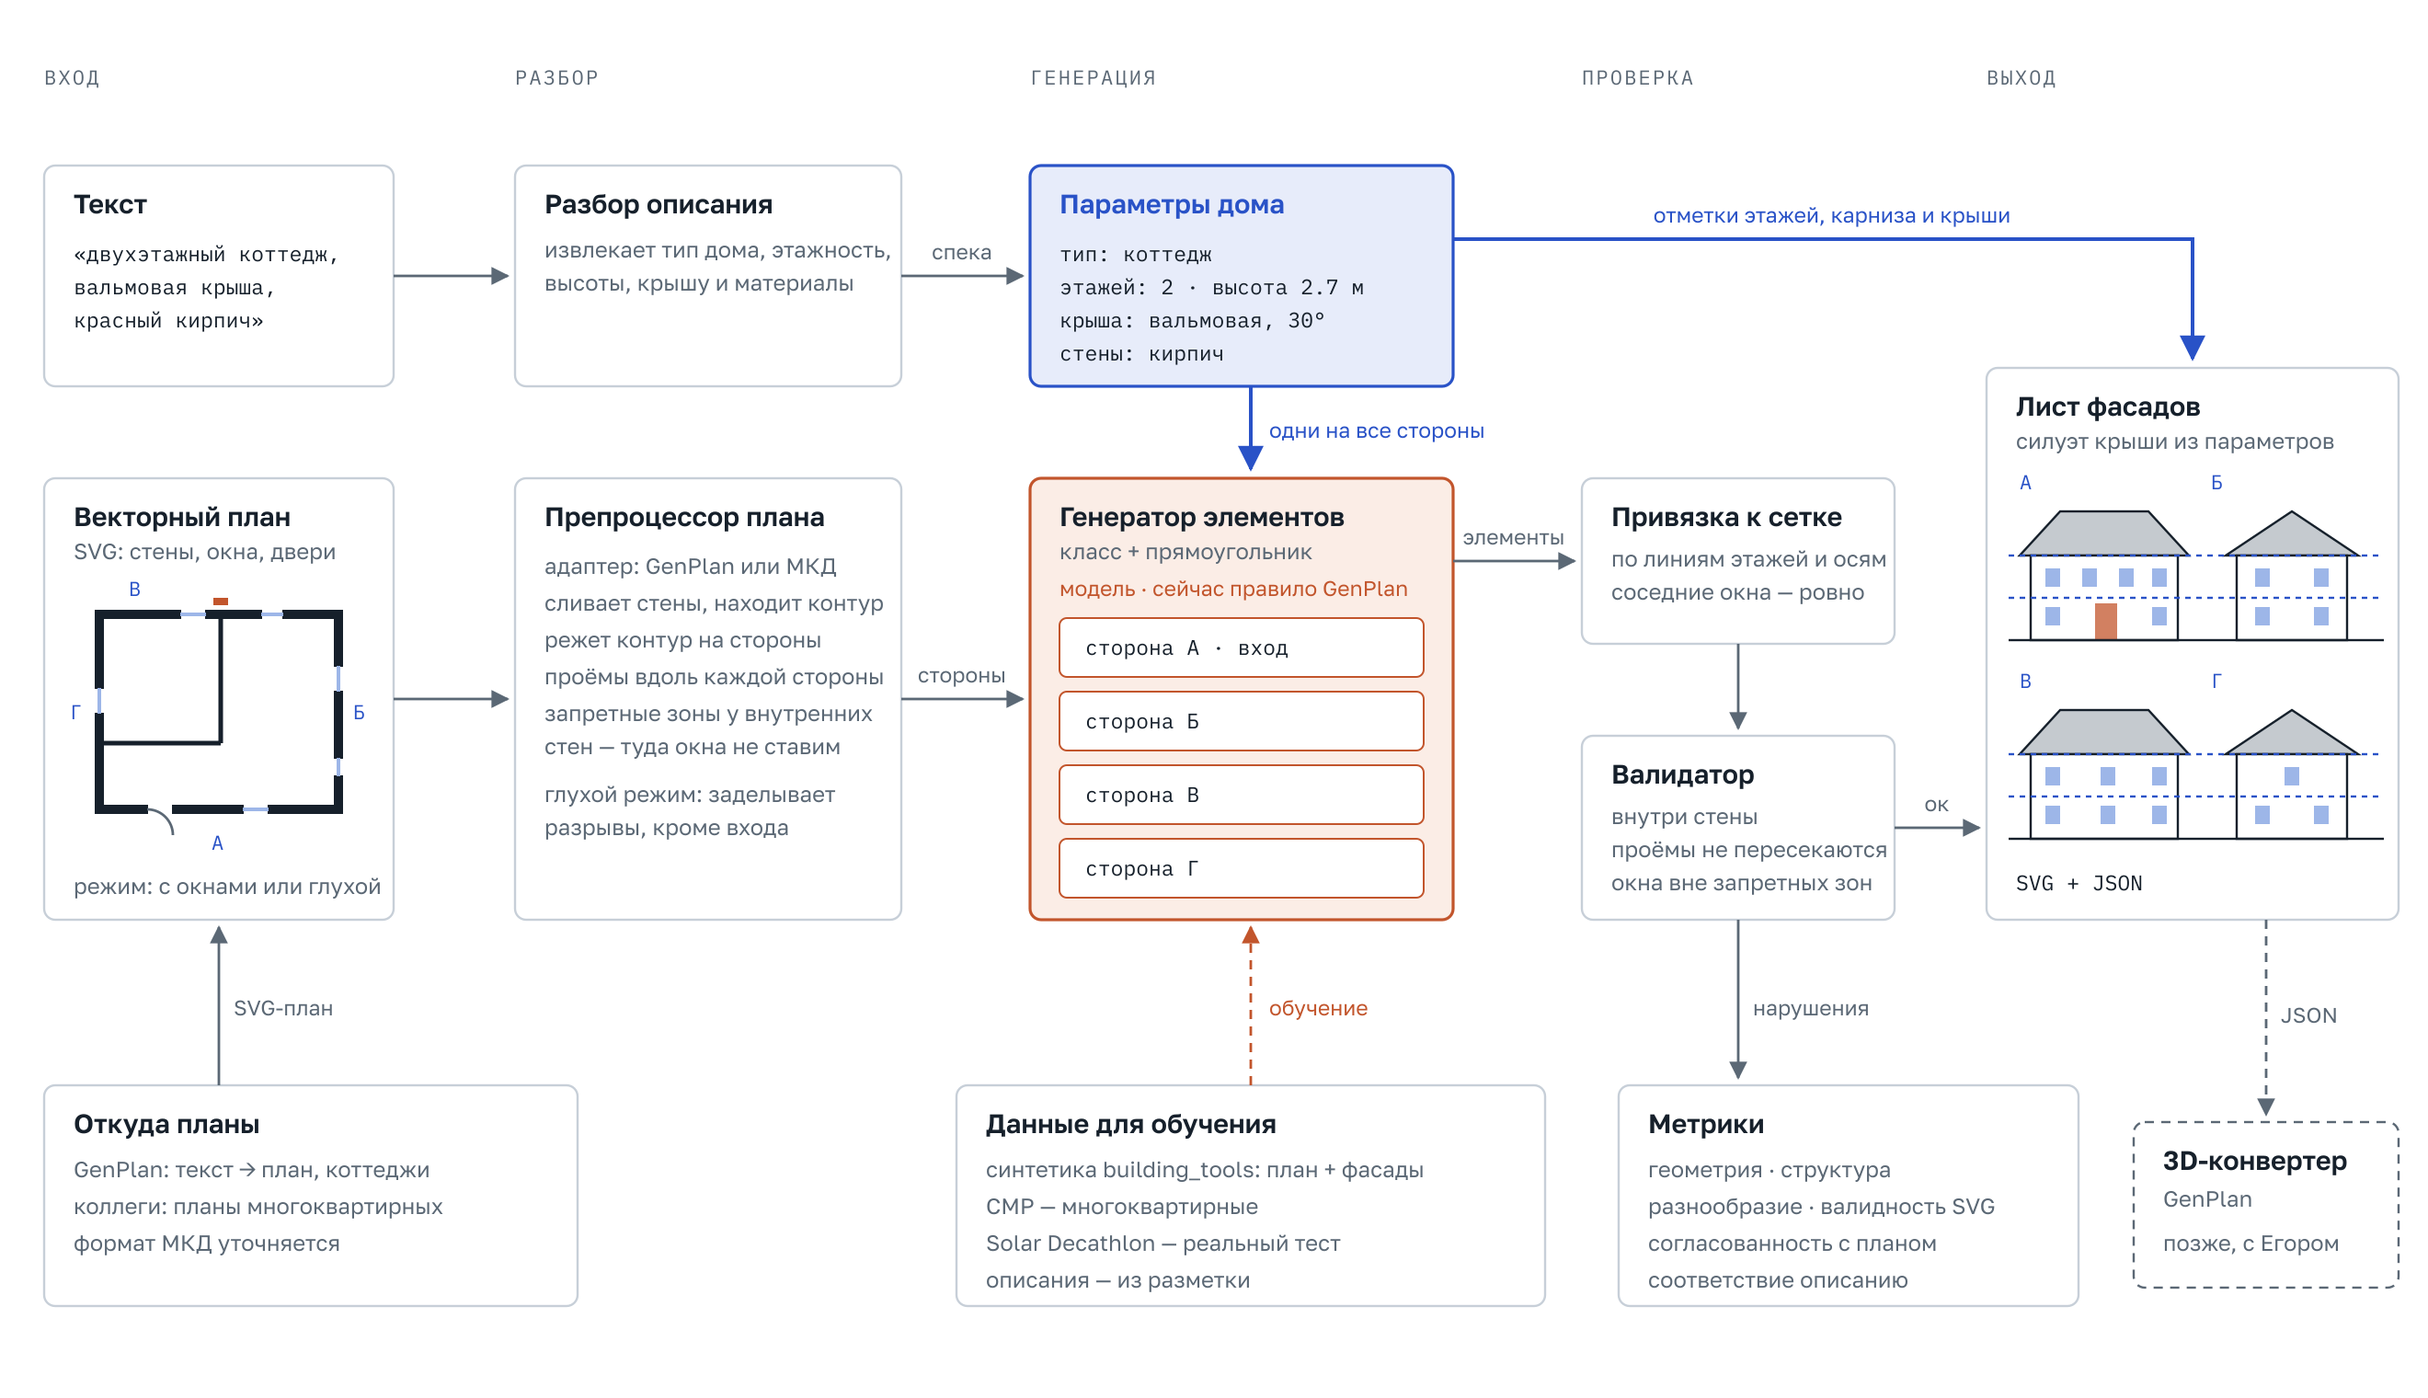
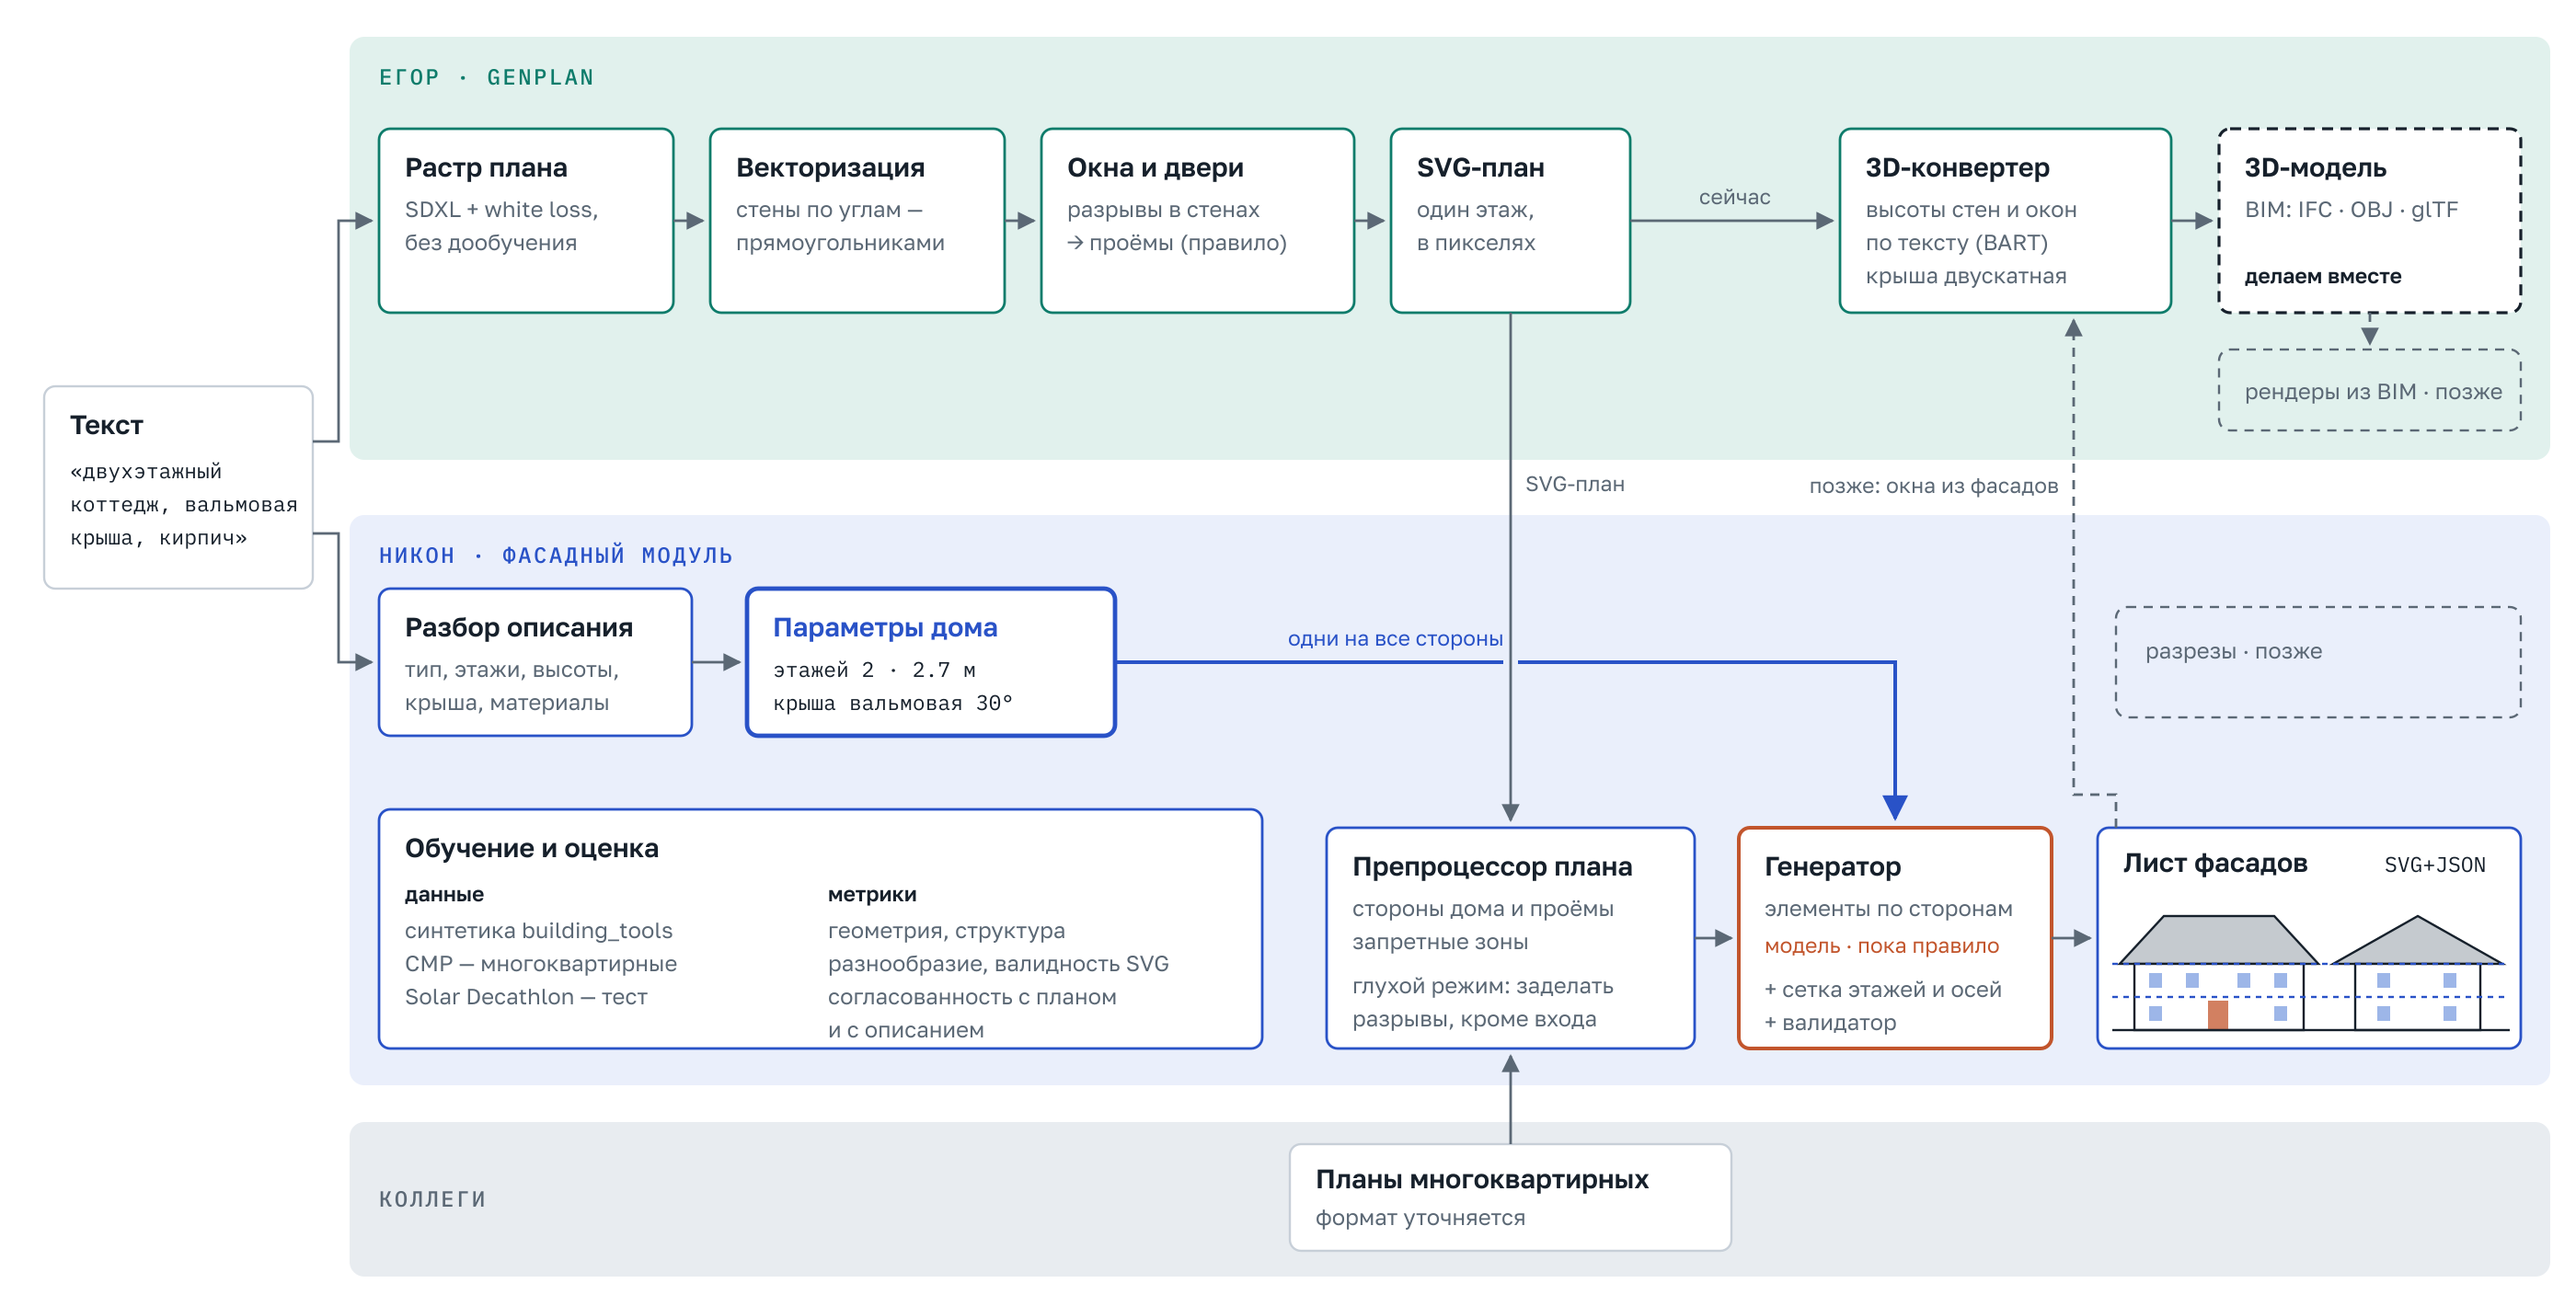
gf#37: схема всего пайплайна от текста до 3D-модели с разделением по владельцам

Changed region(s): [[0.0311, 0.031, 0.9939, 0.9606], [0.1553, 0.8986, 0.1864, 0.9296]]

diff --git a/docs/tasks/gf-0037.md b/docs/tasks/gf-0037.md
@@ -105,7 +105,9 @@ GenPlan и Facades-3D, обзор литературы, датасеты, мет
 
 По просьбе хозяина — картинка архитектуры модуля: `docs/assets/facade-modules.png`
 (2640×1520) и `.svg`; страница — https://claude.ai/artifact/LAK5M2TqZ17A8jQNNccT4n.
-Содержание — по `specs/` (без новых решений). PNG отрисован `rsvg-convert`
+Содержание — по `specs/` (без новых решений). Вторая версия — весь пайплайн
+от текста до 3D-модели полосами по владельцам: Егор (GenPlan по коду, gf#36),
+Никон (фасадный модуль), коллеги (планы МКД), 3D-модель — вместе (Валерия 28.09 18:01). PNG отрисован `rsvg-convert`
 со шрифтами Golos Text и IBM Plex Mono, проверен глазами.
 
 ## Чем возобновлять
